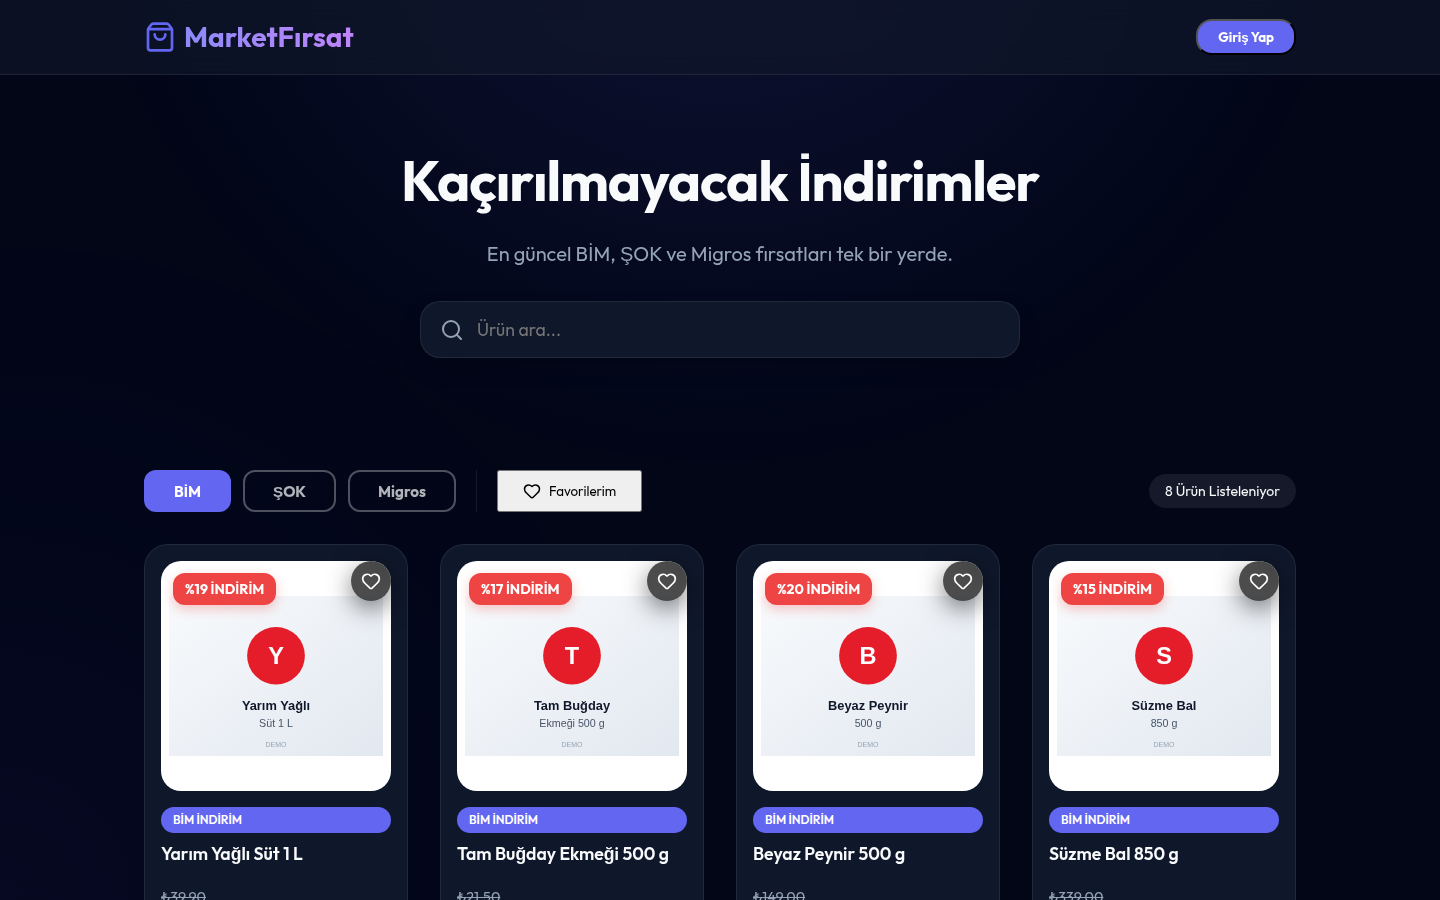
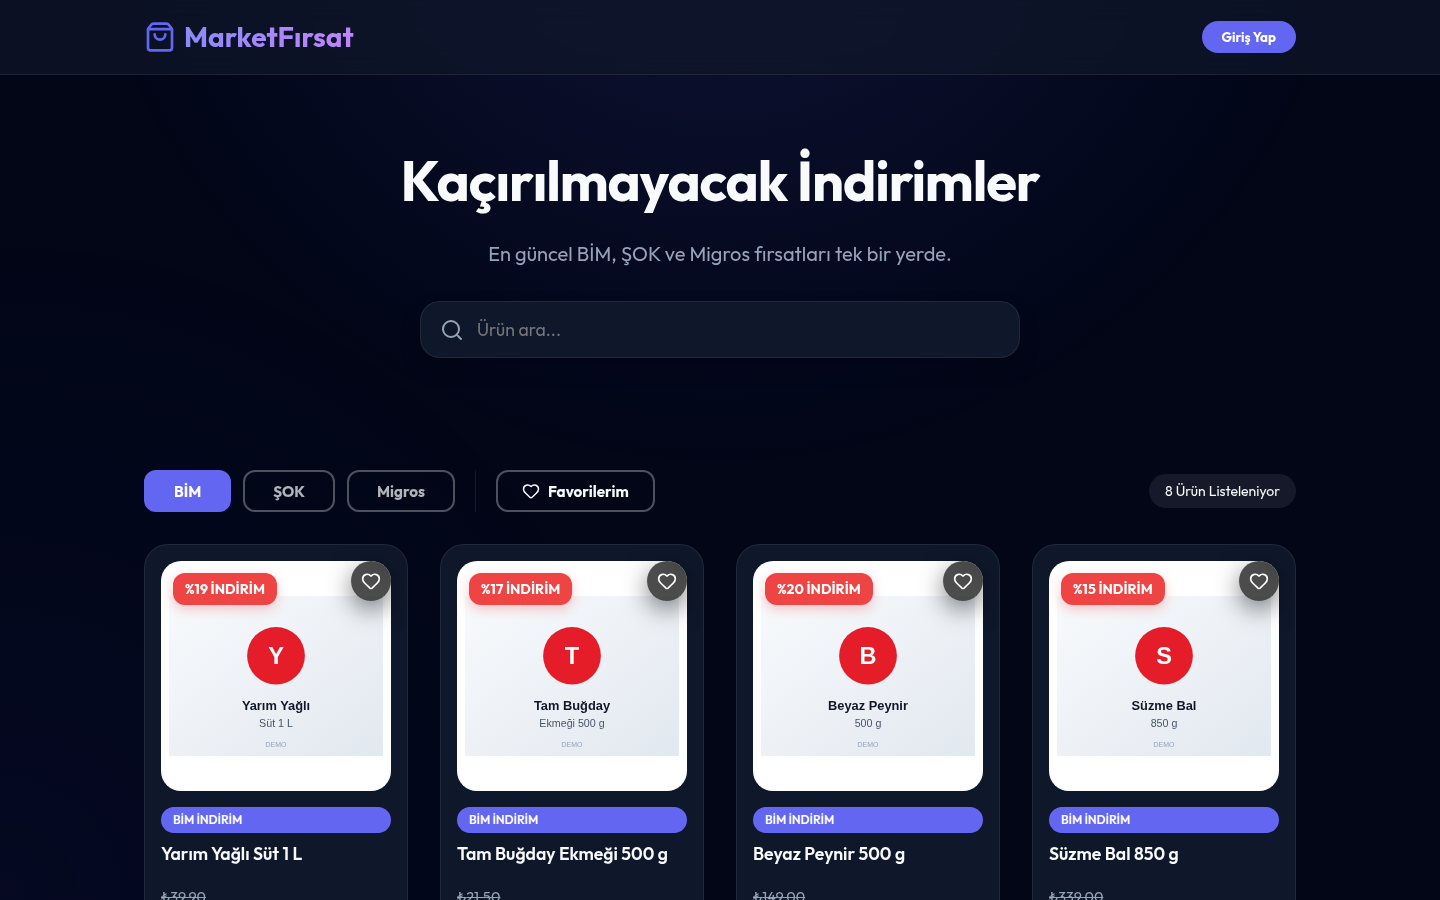
fix(client): style the Favorilerim, share and logout buttons
The web client used .btn, .btn-primary and .btn-outline, but its CSS
never defined them, so these buttons showed as grey browser-default
buttons on the dark UI. They now use the same look as the market tabs
(transparent, 2px border, rounded, design-token colours), the share
button lines up with "Fırsatı Gör", and <button class="btn-buy"> loses
the default border. The three web client screenshots are retaken with
the same seed:demo data and sizes.

Claude-Session: https://claude.ai/code/session_01LbmqPT9km1gDH52PUG2ZLt

diff --git a/packages/client/src/index.css b/packages/client/src/index.css
@@ -259,6 +259,50 @@ body {
   box-shadow: 0 8px 20px -5px rgba(99, 102, 241, 0.4);
 }
 
+button.btn-buy {
+  border: none;
+  cursor: pointer;
+}
+
+/* Secondary buttons (Favorilerim, share, logout): same look as the market tabs */
+.btn,
+.btn-outline,
+.btn-primary {
+  display: inline-flex;
+  align-items: center;
+  justify-content: center;
+  gap: 0.5rem;
+  background: transparent;
+  border: 2px solid rgba(255, 255, 255, 0.3);
+  border-radius: 0.75rem;
+  color: var(--text-main);
+  font-size: 0.95rem;
+  font-weight: 700;
+  cursor: pointer;
+  transition: all 0.2s ease;
+}
+
+.btn-outline:hover {
+  border-color: var(--primary);
+  background: rgba(99, 102, 241, 0.1);
+}
+
+.btn-primary {
+  background: var(--primary);
+  border-color: var(--primary);
+  color: white;
+}
+
+.btn-primary:hover {
+  background: var(--primary-hover);
+  border-color: var(--primary-hover);
+}
+
+/* Share button next to "Fırsatı Gör": start at the same height */
+.btn-buy + .btn-outline {
+  margin-top: 1.25rem;
+}
+
 /* Animations */
 @keyframes fadeInUp {
   from { opacity: 0; transform: translateY(20px); }
